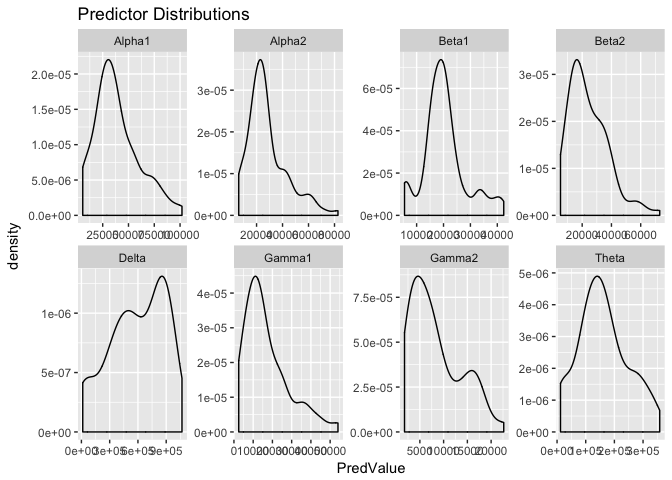
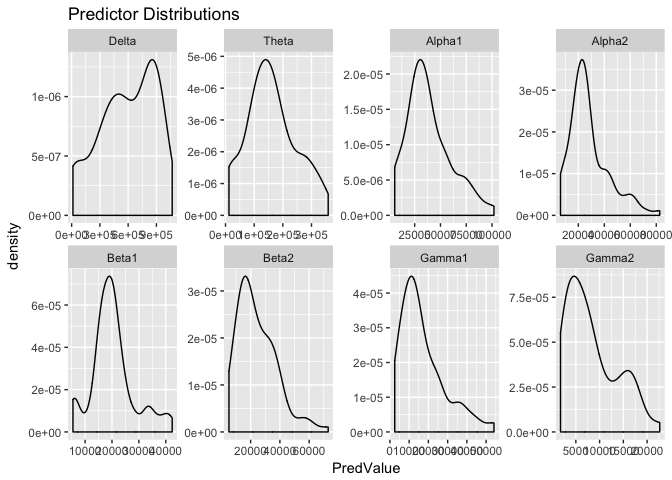
corrected factor order

diff --git a/Ex2Solution.md b/Ex2Solution.md
@@ -1,7 +1,7 @@
 Exercise Set 2 Solution
 ================
 Tjeerd Dijkstra
-2018-01-08
+2018-01-11
 
 Introduction
 ============
@@ -140,10 +140,14 @@ Ymean <- Ymean %>% filter(Attention > 0 & Mediation > 0)
 E5
 --
 
+As before, `gather()` prepares a data.frame for plotting with ggplot such that `Predictor` can be used as a factor to facet the data. As the frequency bands `Delta` ... `Gamma2` are ordered, I prescribe the order with a call to `factor()`. A nice challenge is to put the skewness values in the facet labels (left for 2019!).
+
 ``` r
-Y.plot <- gather(Ymean, Predictor, PredValue, Delta:Gamma2)
+Y.plot <- gather(Ymean, PredictorName, PredValue, Delta:Gamma2)
+Y.plot <- Y.plot %>% mutate(PredictorName = factor(PredictorName,
+              c("Delta", "Theta", "Alpha1", "Alpha2", "Beta1", "Beta2", "Gamma1", "Gamma2")))
 print(ggplot(Y.plot, aes(x = PredValue)) +
-        geom_density() + facet_wrap( ~ Predictor, nrow = 2, scales = "free") +
+        geom_density() + facet_wrap( ~ PredictorName, nrow = 2, scales = "free") +
         labs(title = "Predictor Distributions"))
 ```
 
@@ -151,20 +155,20 @@ print(ggplot(Y.plot, aes(x = PredValue)) +
 
 ``` r
 library(e1071)
-PredSkew <- Y.plot %>% group_by(Predictor) %>% summarize(Skewness = skewness(PredValue))
+PredSkew <- Y.plot %>% group_by(PredictorName) %>% summarize(Skewness = skewness(PredValue))
 knitr::kable(PredSkew, align = "c")
 ```
 
-| Predictor |  Skewness  |
-|:---------:|:----------:|
-|   Alpha1  |  0.7937144 |
-|   Alpha2  |  1.1751507 |
-|   Beta1   |  0.6952884 |
-|   Beta2   |  1.0630570 |
-|   Delta   | -0.4232785 |
-|   Gamma1  |  1.2104615 |
-|   Gamma2  |  0.8156700 |
-|   Theta   |  0.3088136 |
+| PredictorName |  Skewness  |
+|:-------------:|:----------:|
+|     Delta     | -0.4232785 |
+|     Theta     |  0.3088136 |
+|     Alpha1    |  0.7937144 |
+|     Alpha2    |  1.1751507 |
+|     Beta1     |  0.6952884 |
+|     Beta2     |  1.0630570 |
+|     Gamma1    |  1.2104615 |
+|     Gamma2    |  0.8156700 |
 
 E6
 ==
